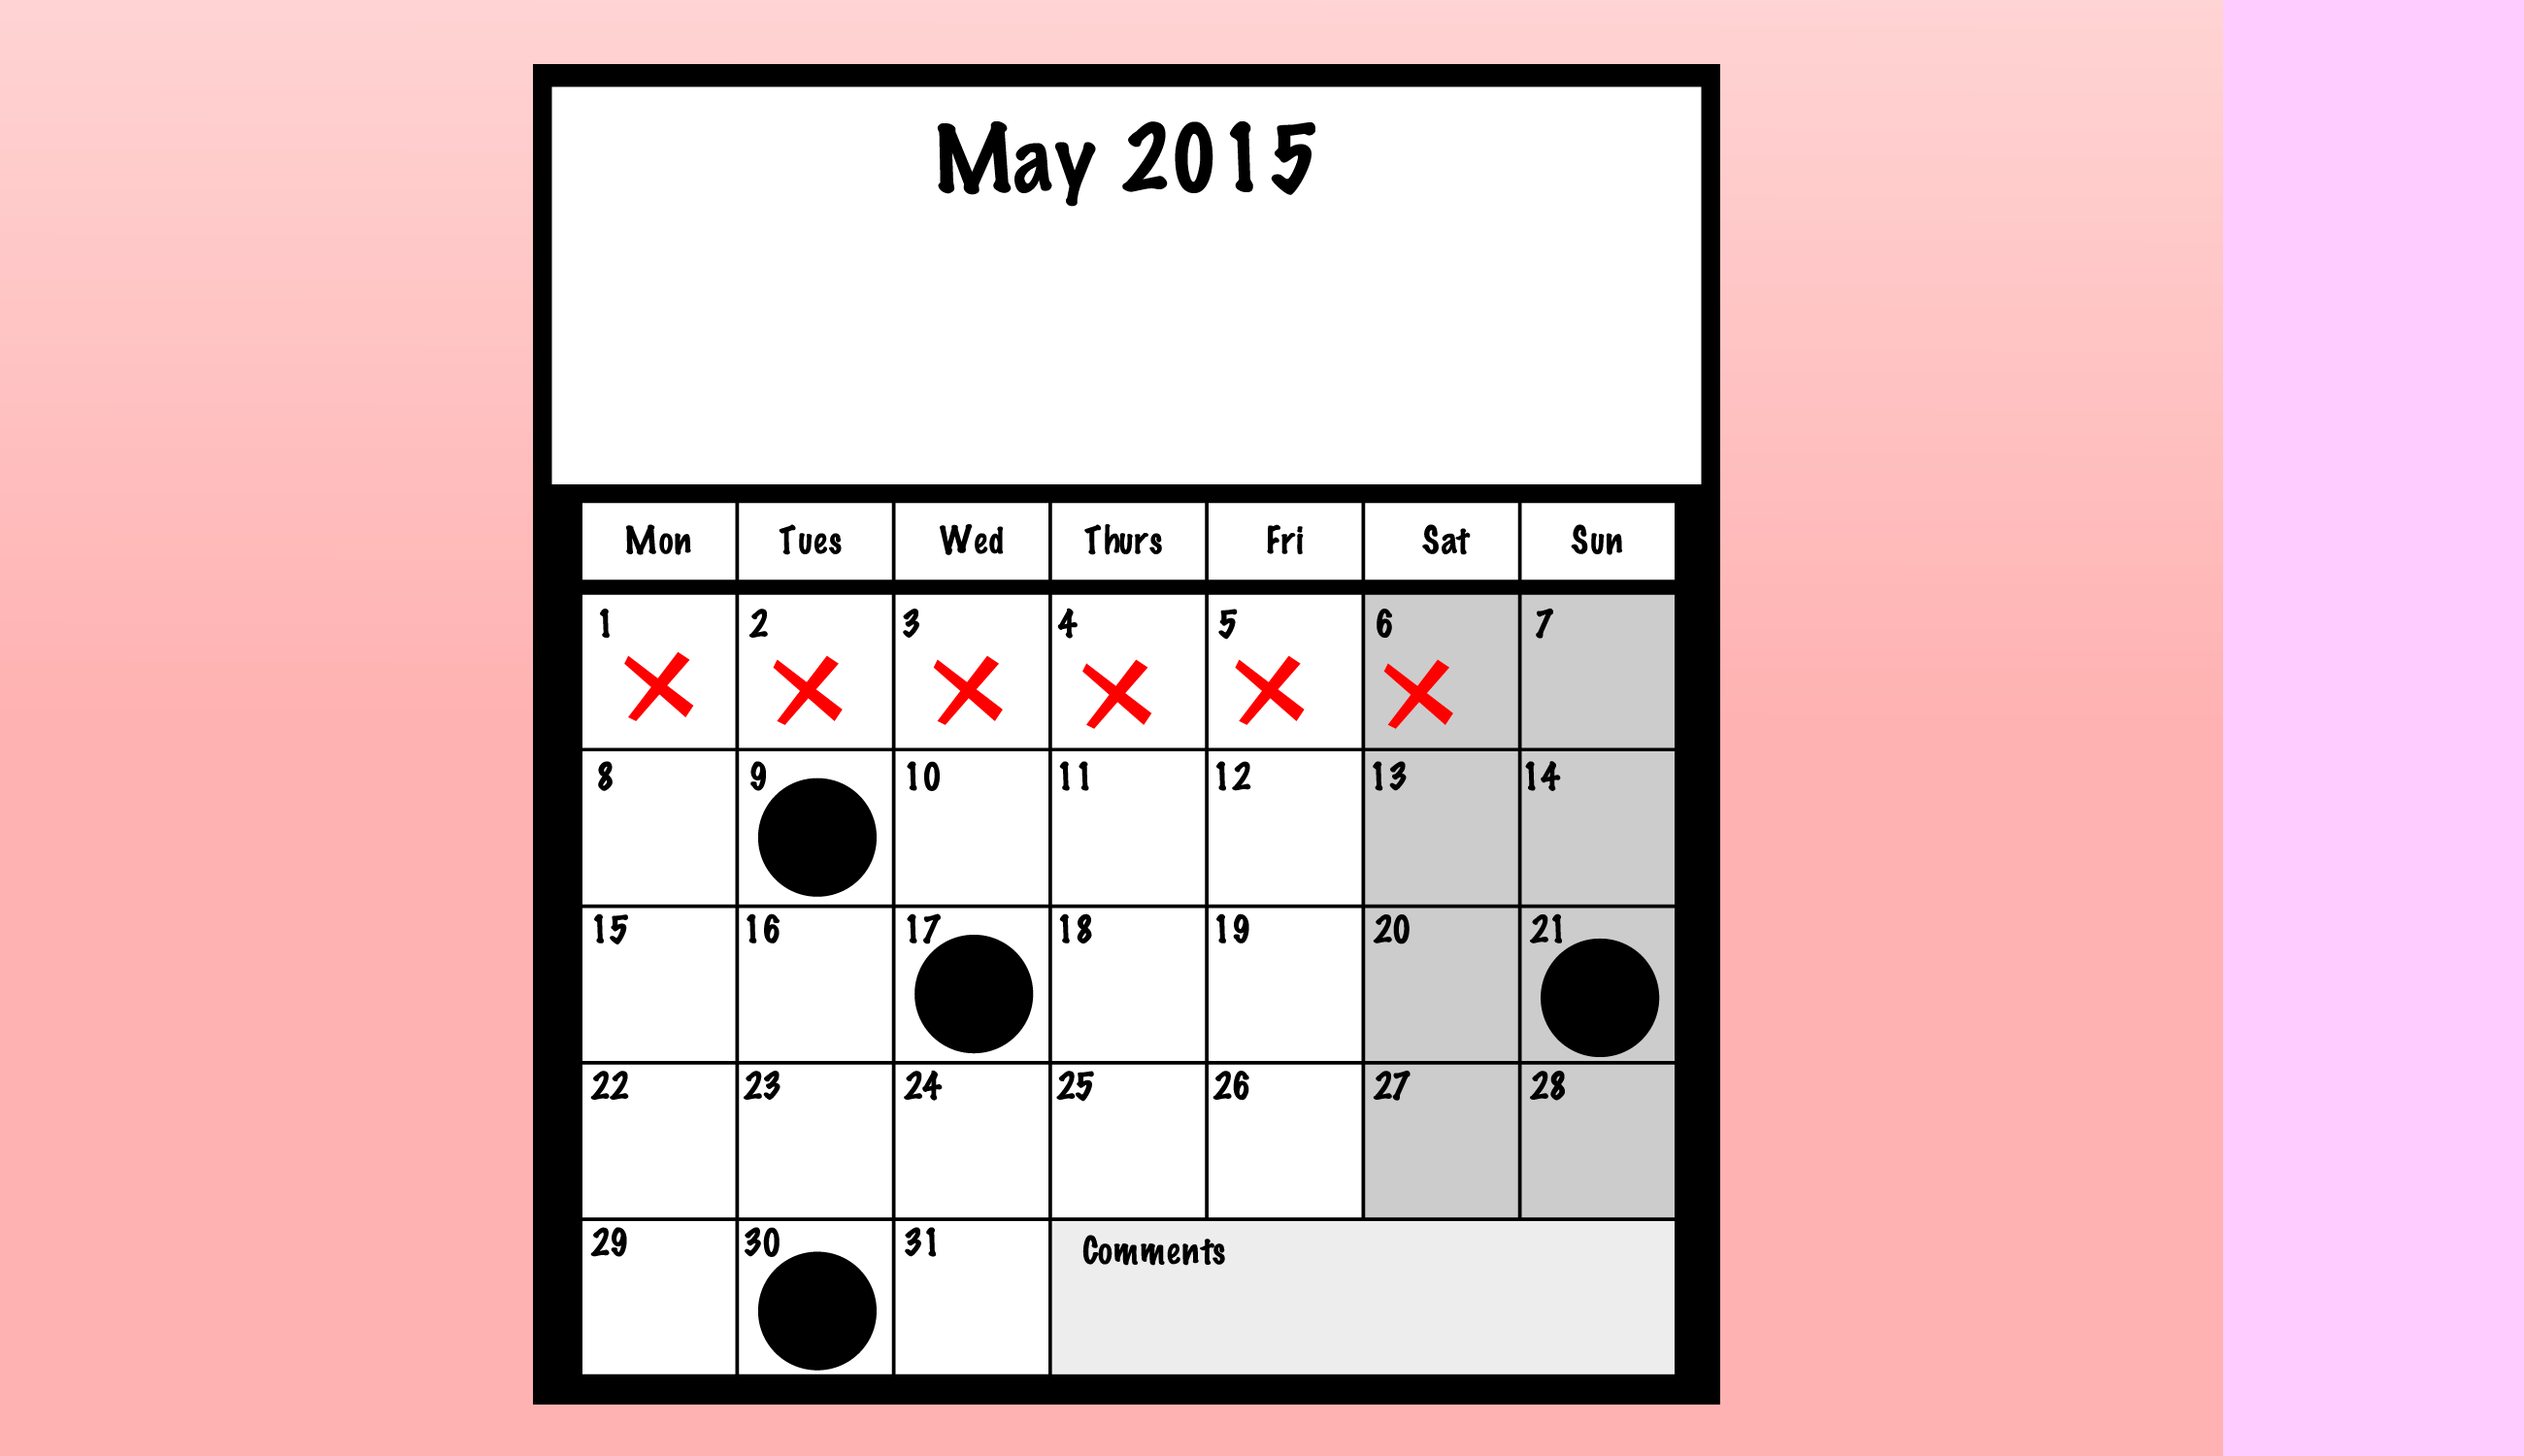
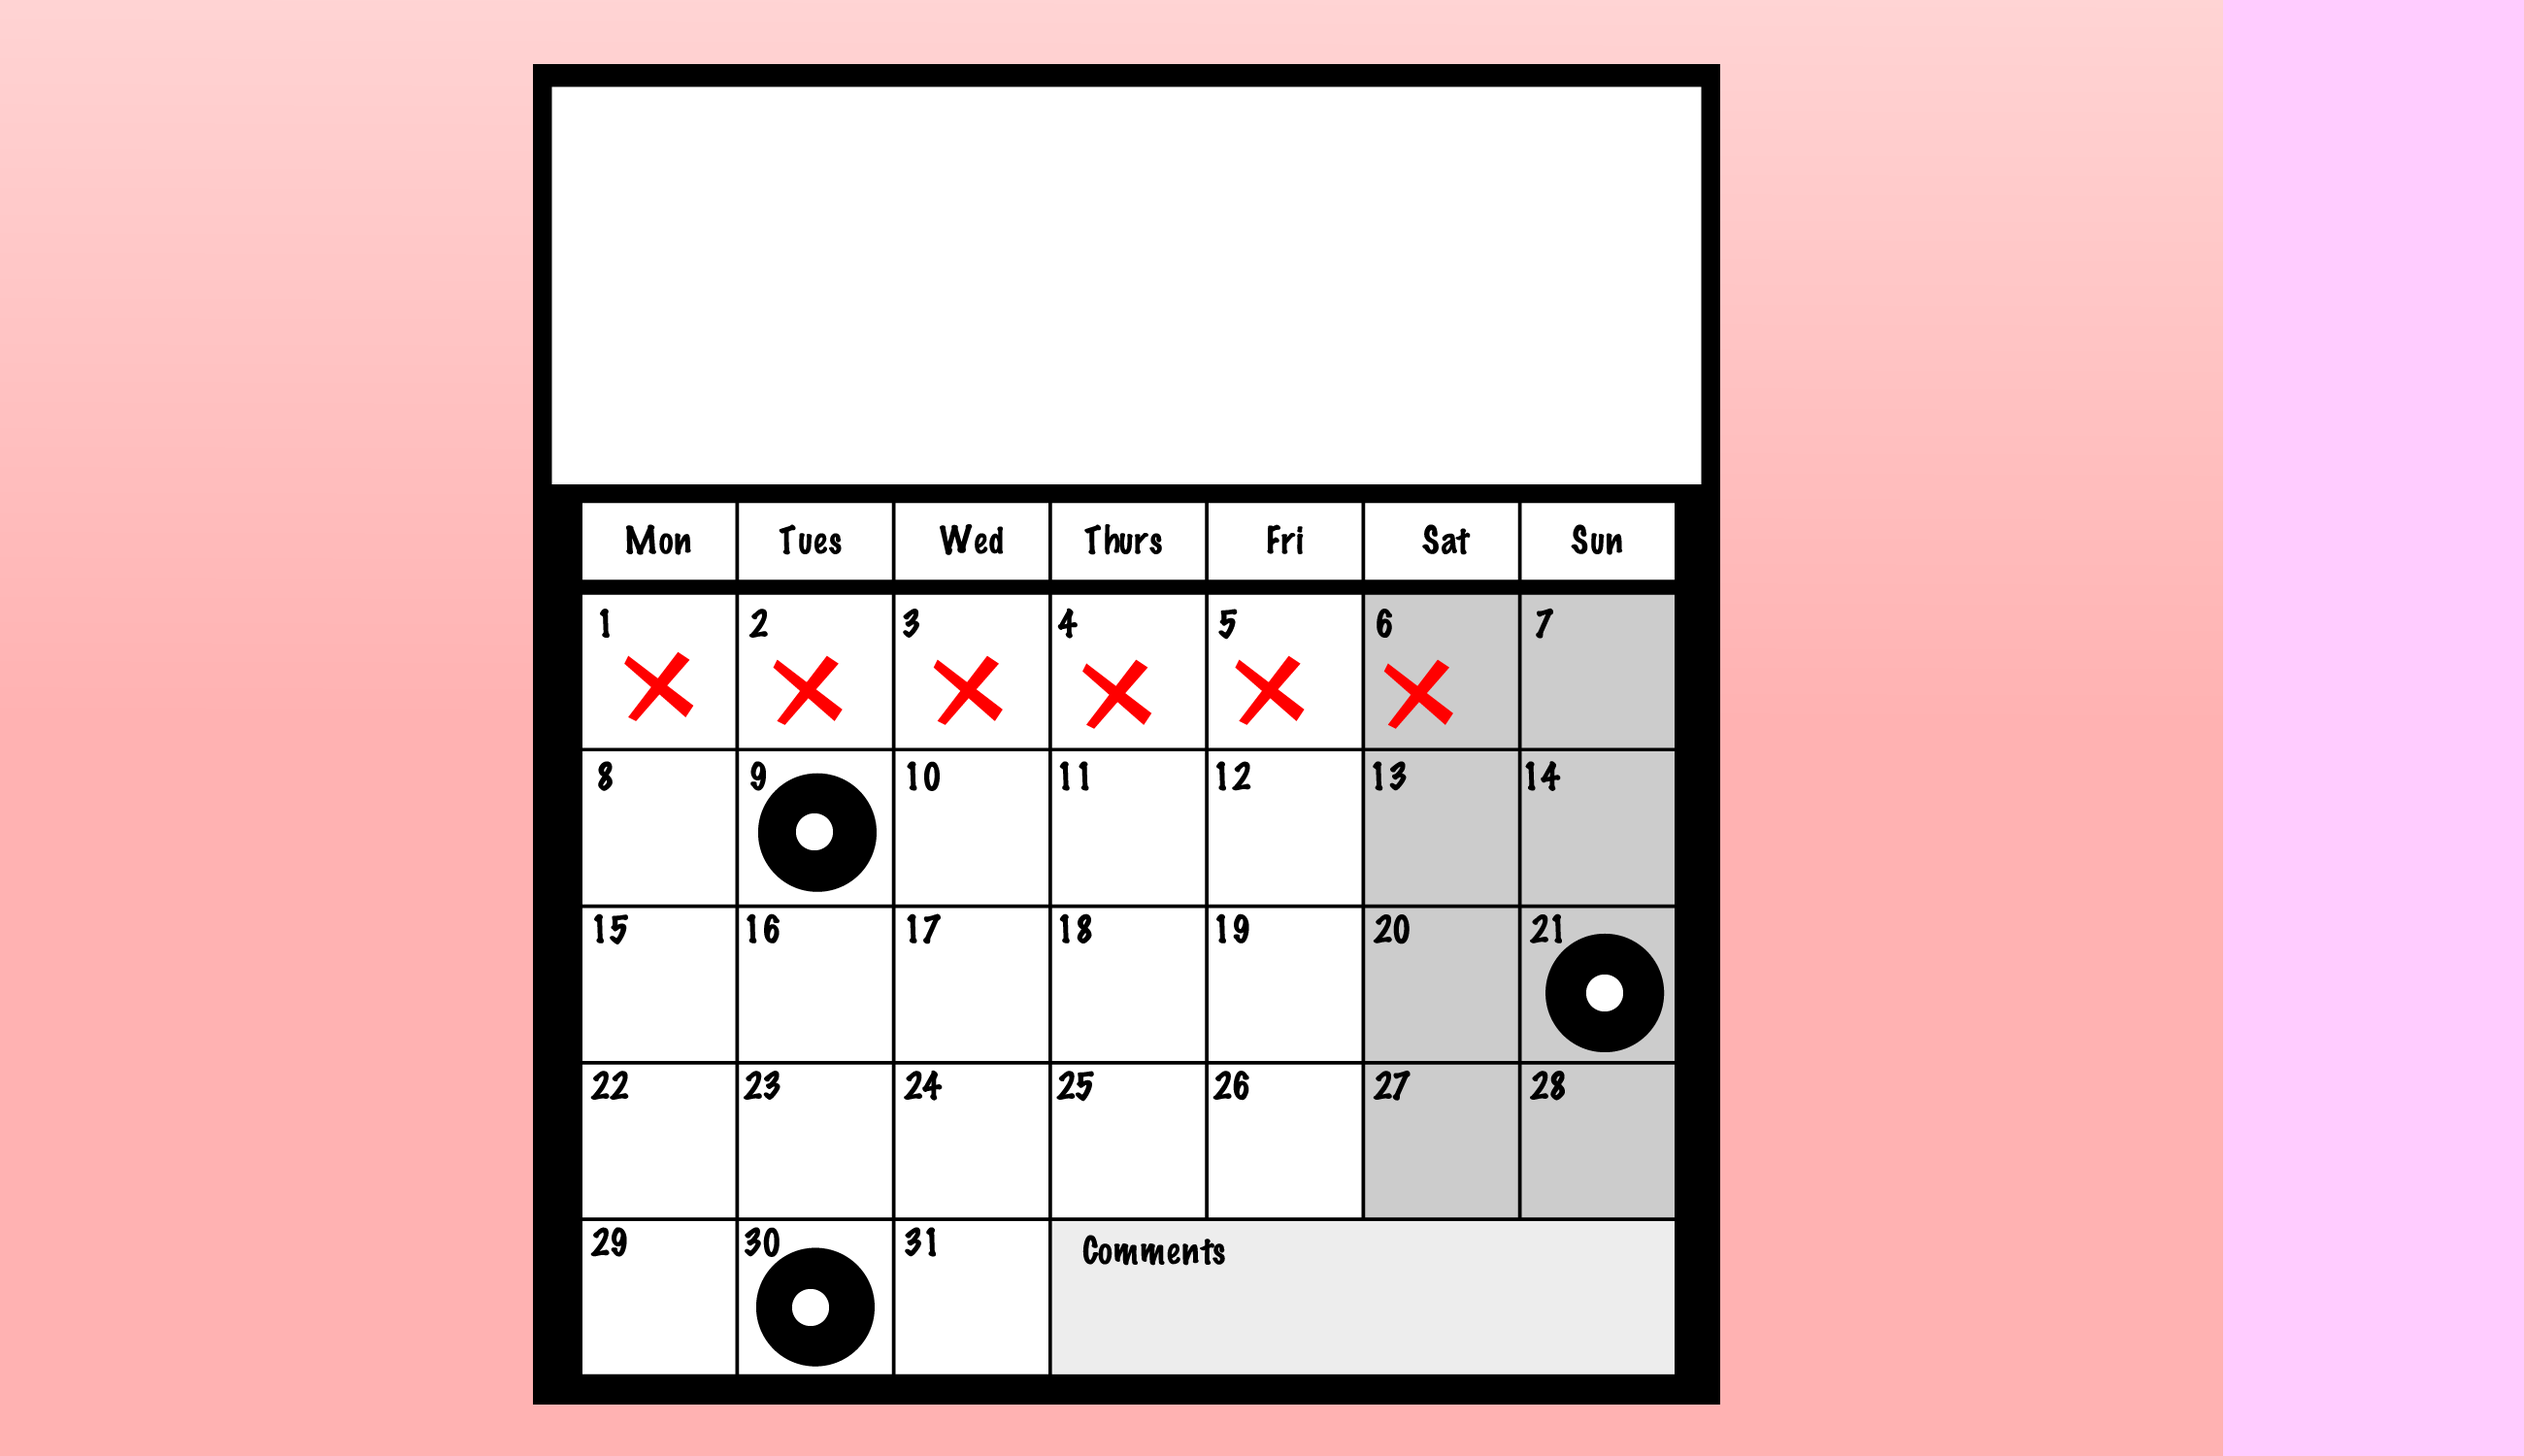
Added interactivity

diff --git a/index.html b/index.html
@@ -9,10 +9,7 @@
         
         <!--Panel 1 Love Quote-->
         <div class="parallax-window" data-parallax="scroll" data-image-src="images/panelbackgrounds/panel1.png" data-speed="0.1">
-         
-              
             <div id="titlecontainer" class="titlecontainer">
-                 
                     <ul id="scene" class="scene">
                         <li class="layer" data-depth="0.50"><img src="images/panel1_title/title0.png"></li>
                         <li class="layer" data-depth="0.40"><img src="images/panel1_title/title1.png"></li>
@@ -22,9 +19,16 @@
                         <li class="layer" data-depth="0.00"><img src="images/panel1_title/title5.png"></li>
                     </ul>
                  <img src="images/hearts.png"> 
-                </div>
-            
+            </div>
         </div>
+        
+            <!-- Scripts -->
+        <script src="scripts/parallax2.js"></script>
+        <script>
+        var scene = document.getElementById('scene');
+        var parallax = new Parallax(scene);
+        </script>
+        
         <!--Break 1-->
         <div class="parallax-window" data-parallax="scroll" data-image-src="images/panelbackgrounds/panel2.png" data-speed="-1">
             <div class="container">
@@ -58,27 +62,24 @@
         </div>  
 
          <!--Panel 6 Select dates-->
-             <div class="parallax-window" data-parallax="scroll" data-image-src="images/calendar.png" data-speed="0">
-                 <div class="circlecontainer">
-                    <img class="circle" src="images/ipad.png">
-                    <img class="circle" src="images/happilyeverafter.png">
-                    <img class="circle" src="images/radio1.png">
-                    <img class="circle" src="images/pinboard.png">
-                    <img id="mainImage" class="image-width "src="images/bedroom.png">
-                </div>
-             </div>
-        
-   
+             <div class="parallax-window" data-parallax="scroll" data-image-src="images/calendar.png" data-speed="1">
+                 <div class="calandercontainer">
+                    <img id="mainImage" class="image-width" src="images/canalderimage.png">
+                 
+                     <div class="circlecontainer1">
+                        <img class="circle src" src="images/canalderimagedate1.png">
+                     </div>
+                            <div class="circlecontainer2">
+                                <img class="circle" src="images/canalderimagedate3.png">
+                            </div>
+                             </div >
+                                <div class="circlecontainer3">
+                                    <img class="circle" src="images/canalderimagedate4.png">
+                                </div>
+                     </div> 
+                                
+
             
-     
-
-        <!-- Scripts -->
-        <script src="scripts/parallax2.js"></script>
-        <script>
-        var scene = document.getElementById('scene');
-        var parallax = new Parallax(scene);
-        </script>
-
         
            <!--Panel 8 Radio-->
          <div class="parallax-window" data-parallax="scroll" data-image-src="images/radio.png" data-speed="1">

diff --git a/css/main.css b/css/main.css
@@ -15,15 +15,42 @@
     margin: 0 auto;
 }
 
-
-.circlecontainer {
-    width: 1000px;
-	margin: 0px auto;
+.calandercontainer {
+   width: 63%;
+   height: 40%;
+   margin-left: 11.6%;
+   margin-top: 12%;
     
 }
 
+.circlecontainer1 {
+    margin-left: 17%;
+    margin-top: 24.6%;
+    width: 12%;
+    height: 15%;  
+}
+
+
+
+.circlecontainer2 {
+    margin-left: 84.5%;
+    margin-top: 6.3%;
+    width: 12%;
+    height: 23%;  
+}
+
+.circlecontainer3 {
+    margin-left: 22.2%;
+    margin-top: 35.5%;
+    width: 8%;
+    height: 12%;  
+}
+
 .image-width {
-	width: 100%;
+   margin-left: 20%;
+   padding-top: 8%;
+   width: 60%;   
+   height: 100%;
 }
 
 .selected { /*Class toggled on and off --> */
@@ -32,23 +59,25 @@
 }
 
 #mainImage {
-    border: 1px solid black;    
+   margin-left: 20%;
+   margin-top: 55%;
+   width: 60%;   
+   height: 66%;
 }
 
 .circle {
-    border: 5px solid #6c6a6a;
     border-radius: 200px;
-    background: black;
     float: left;
     margin: 10px;
-    height: 200px;
-    width: 200px;  
+    height: 120px;
+    width: 120px;  
     transition: all 1s;
 }
 
 .circle:hover {
     opacity: 0.1;   
 }
+
 
  /* TITLE ANIMATION*/
 
@@ -198,6 +227,10 @@ clearfix {
 
 /* How it looks when selected */
 .selected { 
-   background-image: url(../images/chicken.jpg);
-   background-size: cover;
+   background: none;
+   opacity: 0;
 }
+
+
+
+

diff --git a/scripts/reveal.js b/scripts/reveal.js
@@ -8,7 +8,7 @@ $( document ).ready(function() {
     });
 
     function removeSelectedClass() {
-        $(".circle").removeClass("selected");  //Selected class is removed on all boxes when one is selected.
+        $(".circle").removeClass(".selected");  //Selected class is removed on all boxes when one is selected.
     }
  
 });
